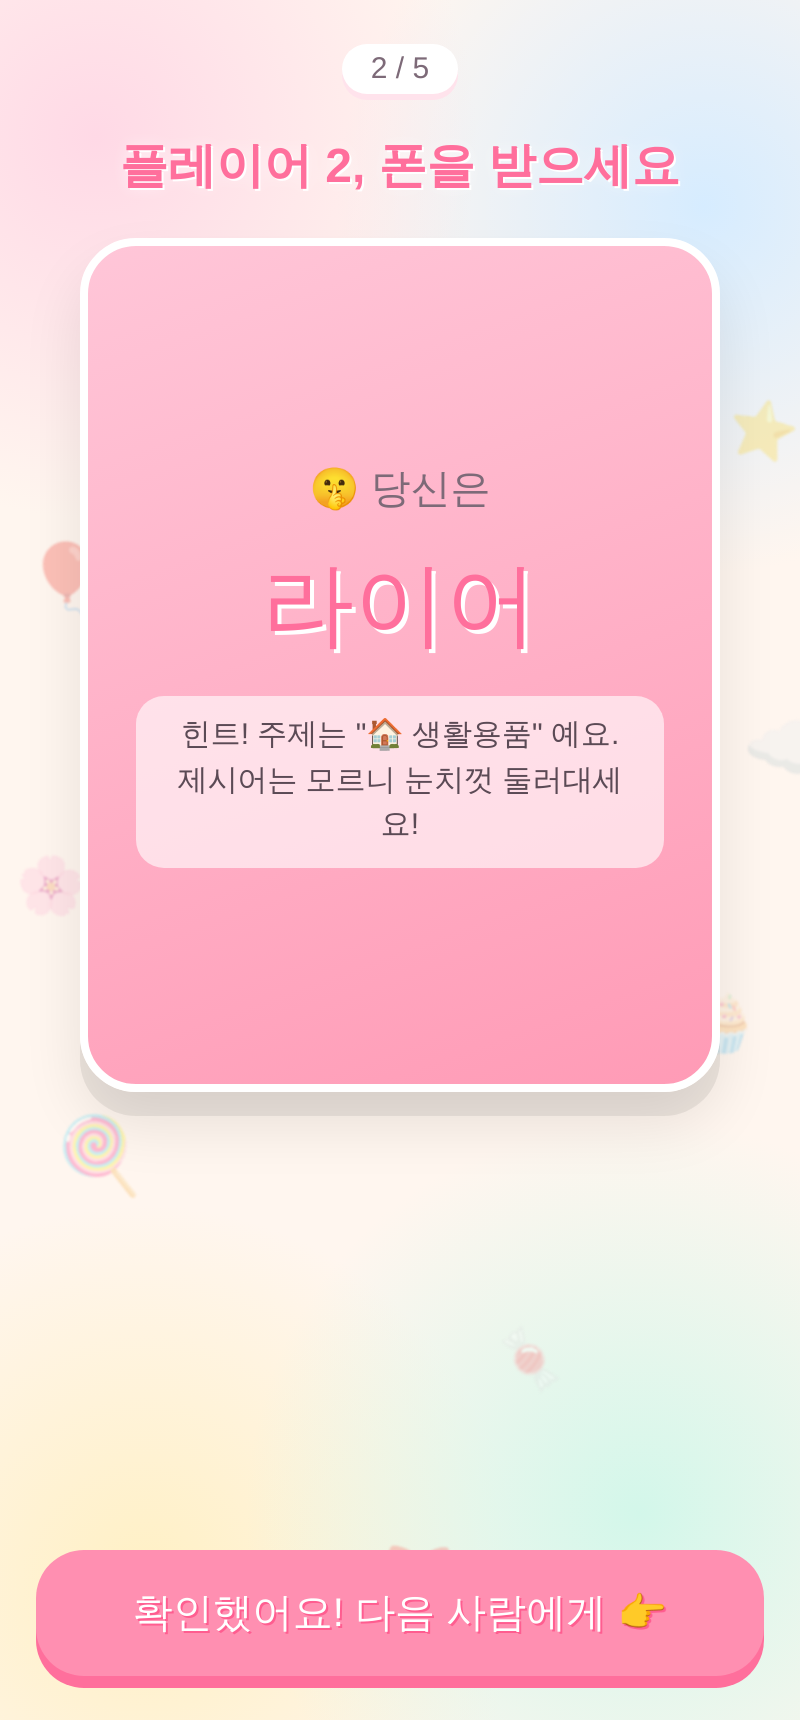
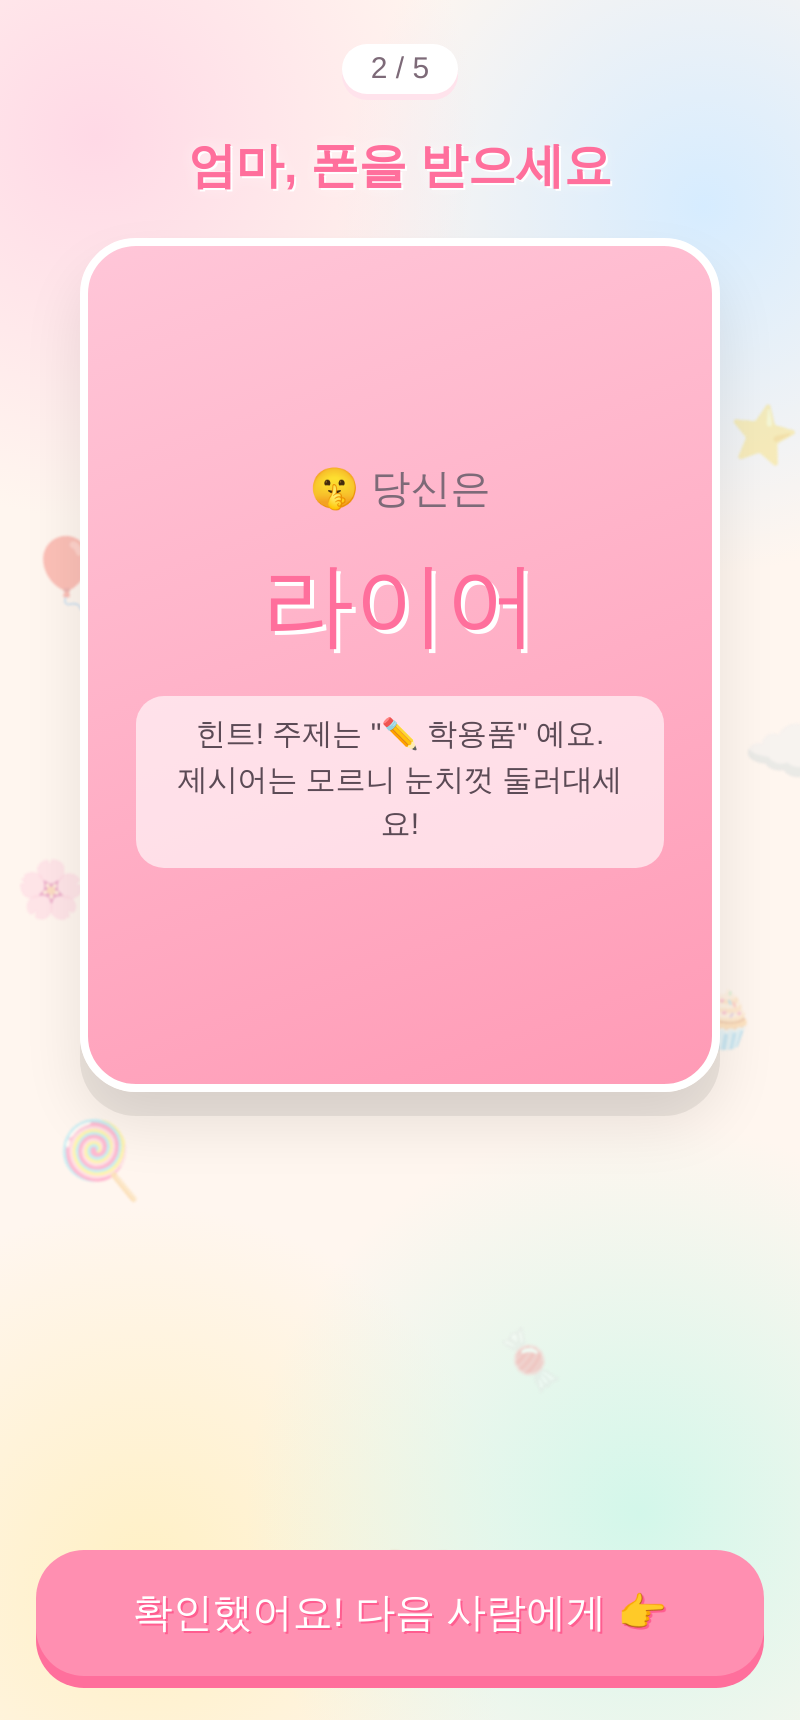
플레이어 닉네임 기능: 기본 5명(아빠/엄마/예예/두지/토리) + 편집 가능
- 기본 플레이어 수 5, 기본 닉네임 가족 5명으로 설정
- 설정 화면에 플레이어 이름 입력칸(인원수 따라 자동 증감), localStorage 저장
- 역할 확인/투표/결과에 닉네임 반영(빈칸은 '플레이어 N' 대체)
- jsdom 테스트 28/28 통과, 스크린샷 갱신

diff --git a/app.js b/app.js
@@ -10,13 +10,14 @@ const STORE_CUSTOM = "liar.custom.v1";
 
 // ----- 설정 상태 -----
 const settings = {
-  playerCount: 4,
+  playerCount: 5,
   liarCount: 1,
   categories: [], // 선택된 카테고리 이름들
   spyMode: false,
   comeback: true,
   timer: false,
   easy: true, // 쉬움 모드: 라이어에게 카테고리 힌트 제공
+  playerNames: ["아빠", "엄마", "예예", "두지", "토리"], // 기본 닉네임
 };
 
 // ----- 누적 점수판 -----
@@ -60,6 +61,8 @@ function loadSettings() {
     if (typeof saved.comeback === "boolean") settings.comeback = saved.comeback;
     if (typeof saved.timer === "boolean") settings.timer = saved.timer;
     if (typeof saved.easy === "boolean") settings.easy = saved.easy;
+    if (Array.isArray(saved.playerNames))
+      settings.playerNames = saved.playerNames.map((n) => (typeof n === "string" ? n : "")).slice(0, MAX_PLAYERS);
     // 더 이상 존재하지 않는 카테고리는 걸러내기
     const valid = new Set(Object.keys(WORD_BANK));
     settings.categories = settings.categories.filter((c) => valid.has(c));
@@ -182,6 +185,7 @@ function initSetup() {
   $("#btn-edit-words").addEventListener("click", openEditor);
 
   renderCounts();
+  renderNameInputs();
   renderScoreboard();
 }
 
@@ -228,6 +232,7 @@ function changePlayers(delta) {
   // 라이어 수는 항상 (플레이어 수 - 1) 이하
   settings.liarCount = Math.min(settings.liarCount, settings.playerCount - 1);
   renderCounts();
+  renderNameInputs();
   saveSettings();
 }
 
@@ -241,6 +246,42 @@ function changeLiars(delta) {
 function renderCounts() {
   $("#player-count").textContent = settings.playerCount;
   $("#liar-count").textContent = settings.liarCount;
+}
+
+// 플레이어 i의 표시 이름 (비어 있으면 "플레이어 N")
+function getPlayerName(i) {
+  const n = settings.playerNames[i];
+  return n && n.trim() ? n.trim() : `플레이어 ${i + 1}`;
+}
+
+// 플레이어 수에 맞춰 이름 입력칸 다시 그리기
+function renderNameInputs() {
+  const list = $("#name-list");
+  if (!list) return;
+  list.innerHTML = "";
+  for (let i = 0; i < settings.playerCount; i++) {
+    const row = document.createElement("div");
+    row.className = "name-row";
+
+    const num = document.createElement("span");
+    num.className = "name-num";
+    num.textContent = i + 1;
+
+    const input = document.createElement("input");
+    input.type = "text";
+    input.className = "name-input";
+    input.value = settings.playerNames[i] || "";
+    input.placeholder = `플레이어 ${i + 1}`;
+    input.maxLength = 12;
+    input.addEventListener("input", () => {
+      settings.playerNames[i] = input.value;
+      saveSettings();
+    });
+
+    row.appendChild(num);
+    row.appendChild(input);
+    list.appendChild(row);
+  }
 }
 
 // ===================================================================
@@ -317,7 +358,7 @@ function startGame() {
     const isLiar = liarSet.has(i);
     players.push({
       id: i,
-      name: `플레이어 ${i + 1}`,
+      name: getPlayerName(i),
       isLiar,
       // 시민: 제시어 / 스파이모드 라이어: 비슷한 단어 / 기본 라이어: 없음
       word: isLiar ? (settings.spyMode ? spyWord : null) : entry.word,

diff --git a/style.css b/style.css
@@ -106,6 +106,22 @@ body {
 }
 .step-btn:active { transform: translateY(4px); box-shadow: 0 0 0 #e9c84e; }
 
+/* ===== 플레이어 이름 입력 ===== */
+.name-list { display: flex; flex-direction: column; gap: 8px; }
+.name-row { display: flex; align-items: center; gap: 10px; }
+.name-num {
+  width: 30px; height: 30px; flex-shrink: 0; border-radius: 50%;
+  background: var(--lemon); color: var(--ink); font-size: 15px;
+  display: flex; align-items: center; justify-content: center; box-shadow: 0 3px 0 #e9c84e;
+}
+.name-input {
+  flex: 1; padding: 11px 14px; border-radius: 14px;
+  border: 3px solid #ffe3ec; background: var(--cream); color: var(--ink);
+  font-family: inherit; font-size: 16px; outline: none; transition: border-color .15s; min-width: 0;
+}
+.name-input::placeholder { color: #c9b6c2; }
+.name-input:focus { border-color: var(--pink); }
+
 /* ===== 칩 (카테고리/투표) ===== */
 .chip-group { display: flex; flex-wrap: wrap; gap: 9px; }
 .chip {

diff --git a/index.html b/index.html
@@ -51,6 +51,11 @@
         </label>
 
         <div class="field">
+          <span class="field-label">🙋 플레이어 이름</span>
+          <div id="name-list" class="name-list"><!-- JS로 채움 --></div>
+        </div>
+
+        <div class="field">
           <span class="field-label">🗂 제시어 카테고리</span>
           <div id="category-list" class="chip-group"><!-- JS로 채움 --></div>
           <p id="cat-warning" class="warn-text hidden">카테고리를 하나 이상 골라줘! 🥺</p>
